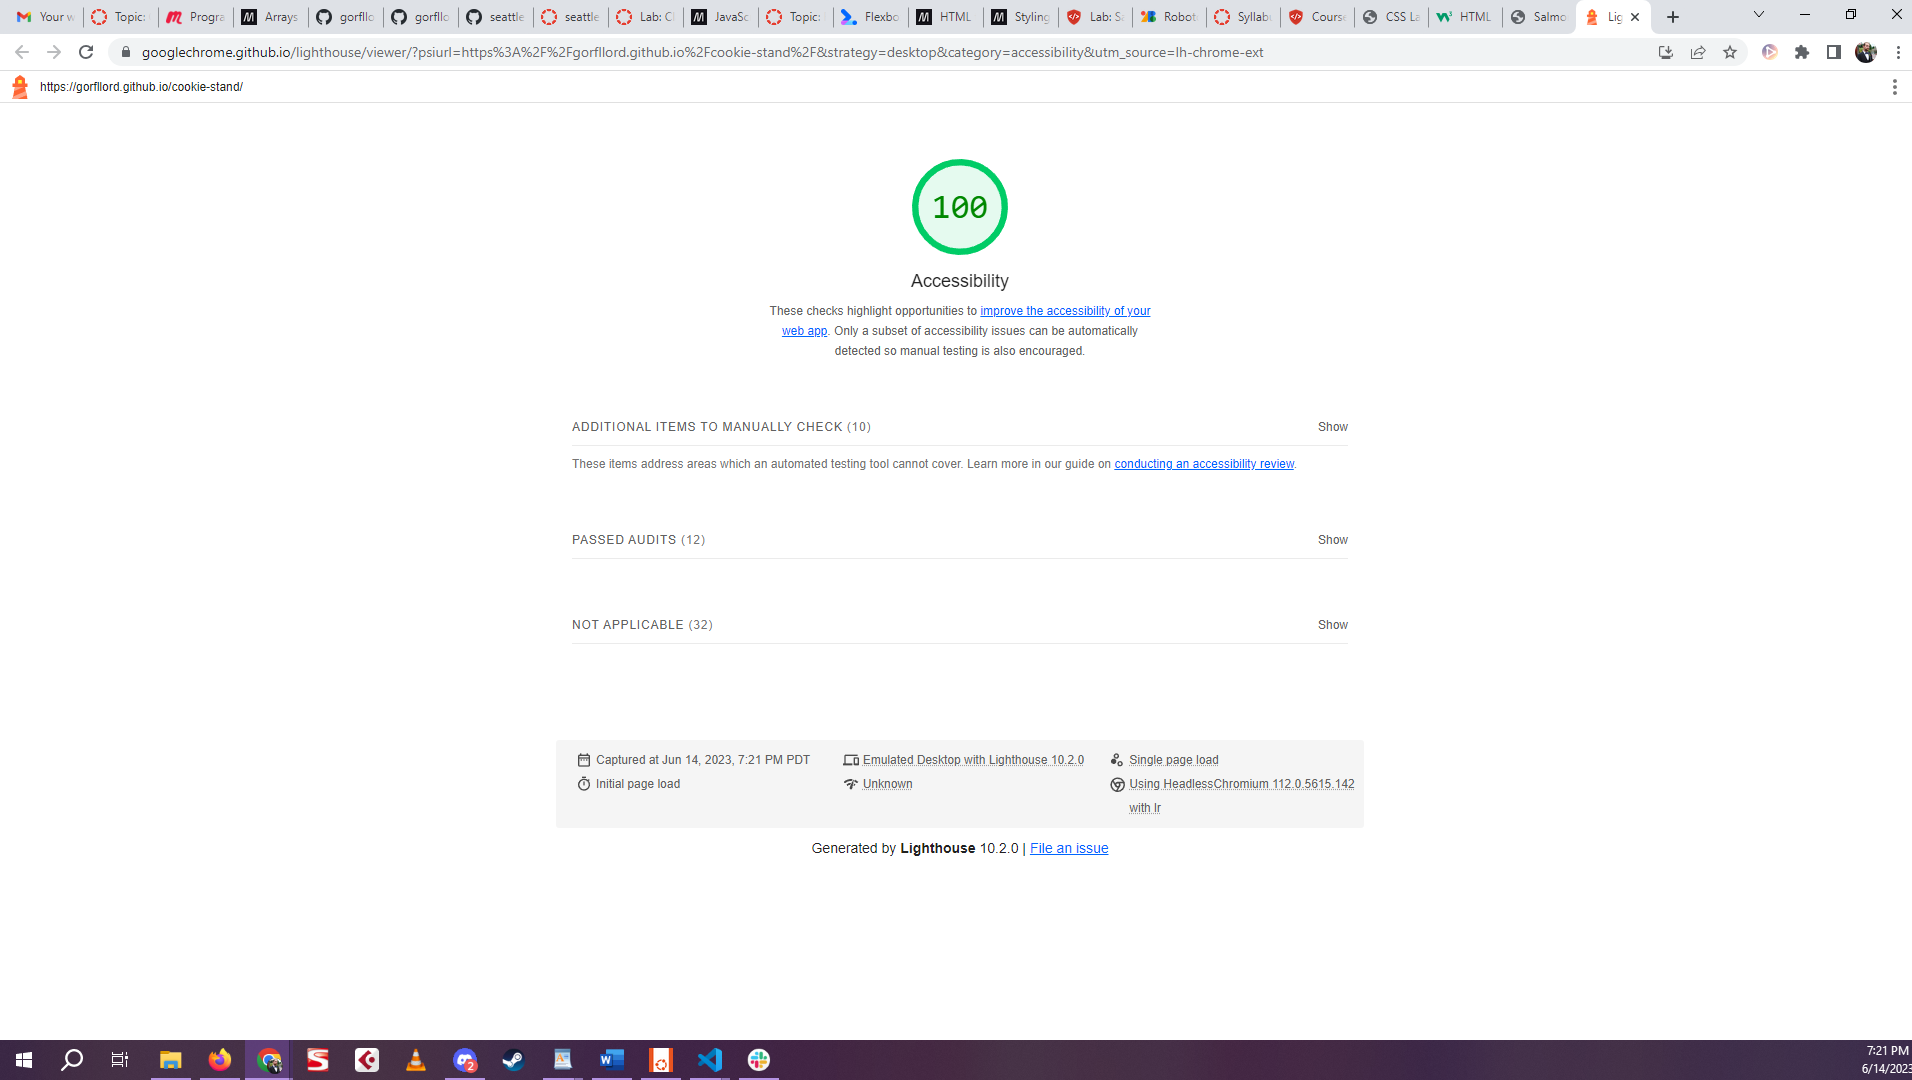
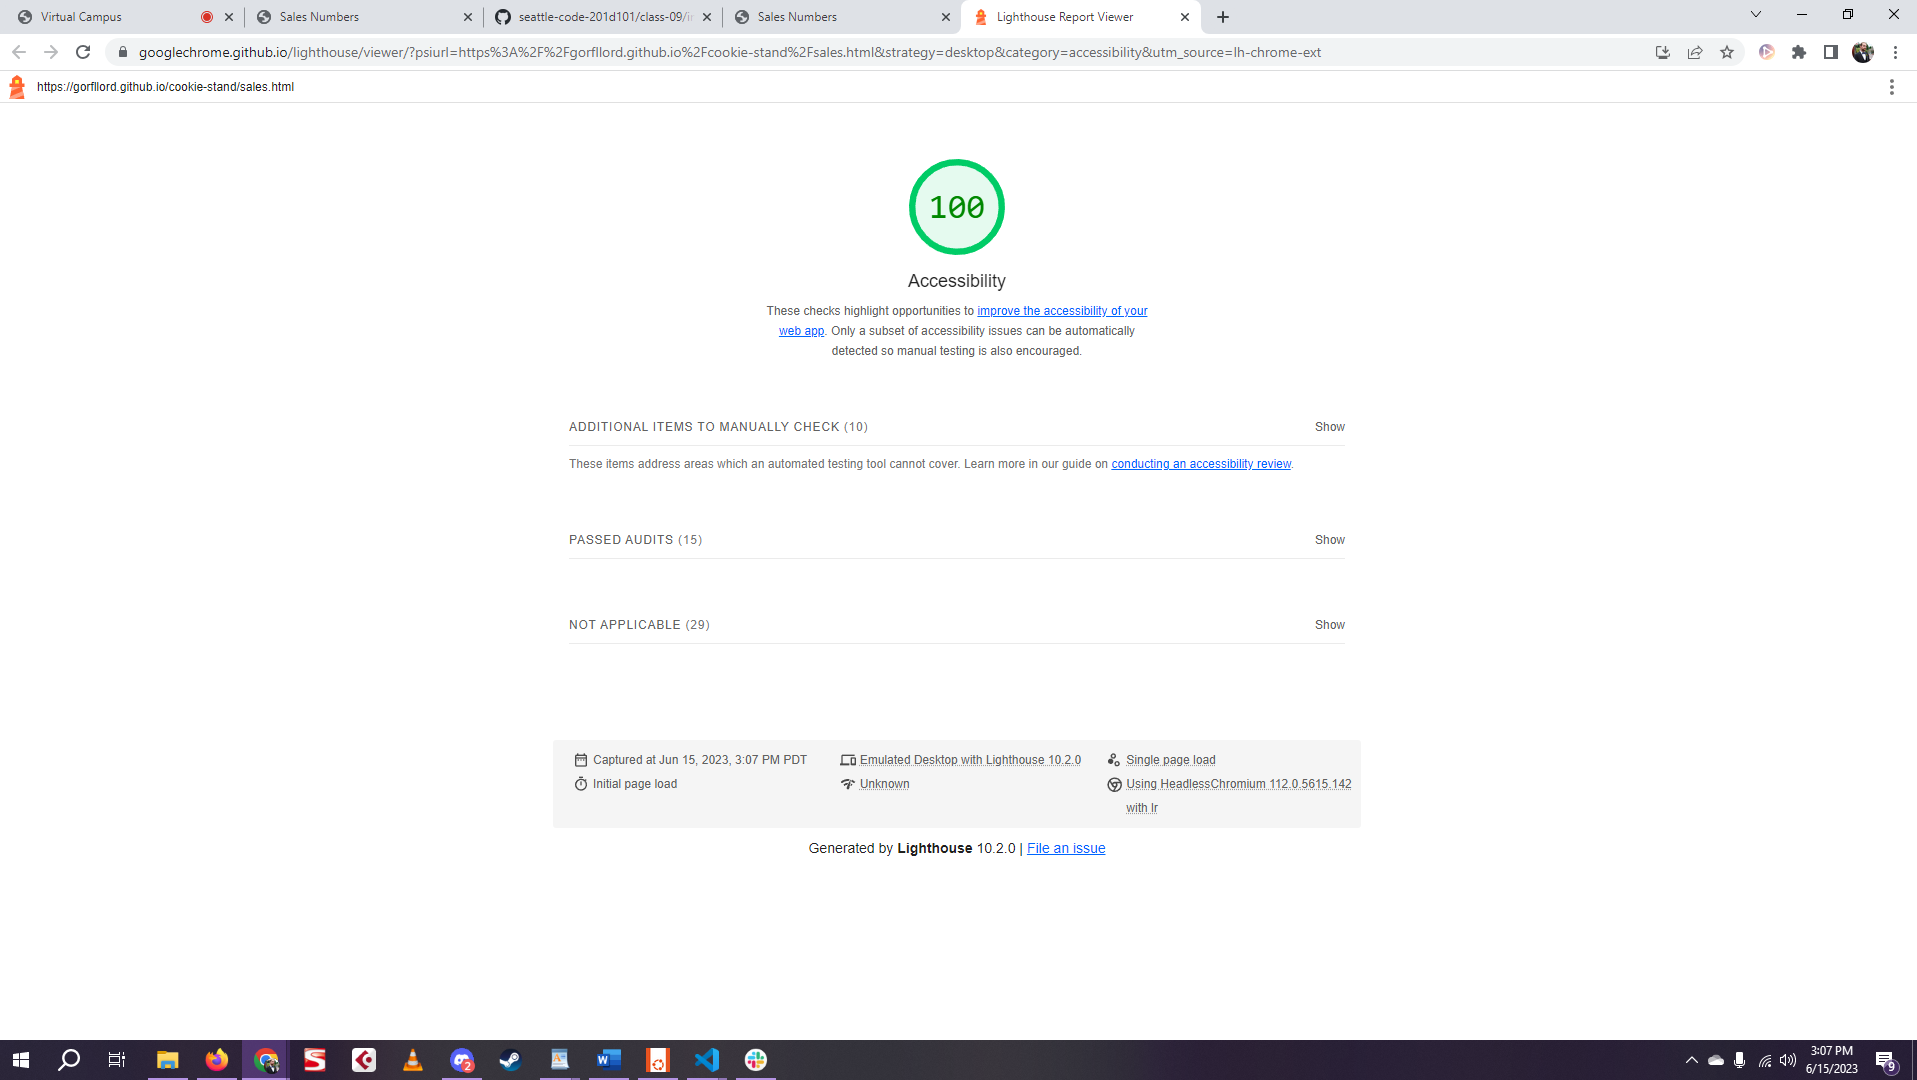
Updated README and Lighthouse score screenshot

diff --git a/README.md b/README.md
@@ -2,13 +2,13 @@
 
 ## Cookie Stand
 
-Build an app that estimates cookie sales by location and displays them in a table. Also build a webpage to display it and a parent site that explains the mission of the cookie business.
+Build an app that estimates cookie sales by location and displays them in a table. Also build a webpage to display it and a parent site that explains the mission of the cookie business. The sales page can also input new entries from a form that will update the table.
 
 ### Author: Geoff Lloyd
 
 ### Links and Resources
 
-* [submission PR](https://github.com/gorfllord/cookie-stand/pull/2)
+* [submission PR](https://github.com/gorfllord/cookie-stand/pull/3)
 
 ### Lighthouse Accessibility Report Score
 
@@ -16,4 +16,4 @@ Build an app that estimates cookie sales by location and displays them in a tabl
 
 ### Reflections and Comments
 
-* I guess I kind of lost track of time and just kind of lost myself in designing my page. An important note is that I decided to get a little extra and make separate pages for the pages in the nav bar, which means I spread out some of the picture assets across multiple pages. Mostly the deviant is the T-Shirt picture which I threw just on the Merch page. Clicking the logo in the header takes you back to index.html.
+* An important note is that I decided to get a little extra and make separate pages for the pages in the nav bar, which means I spread out some of the picture assets across multiple pages. Mostly the deviant is the T-Shirt picture which I threw just on the Merch page. Clicking the logo in the header takes you back to index.html.
